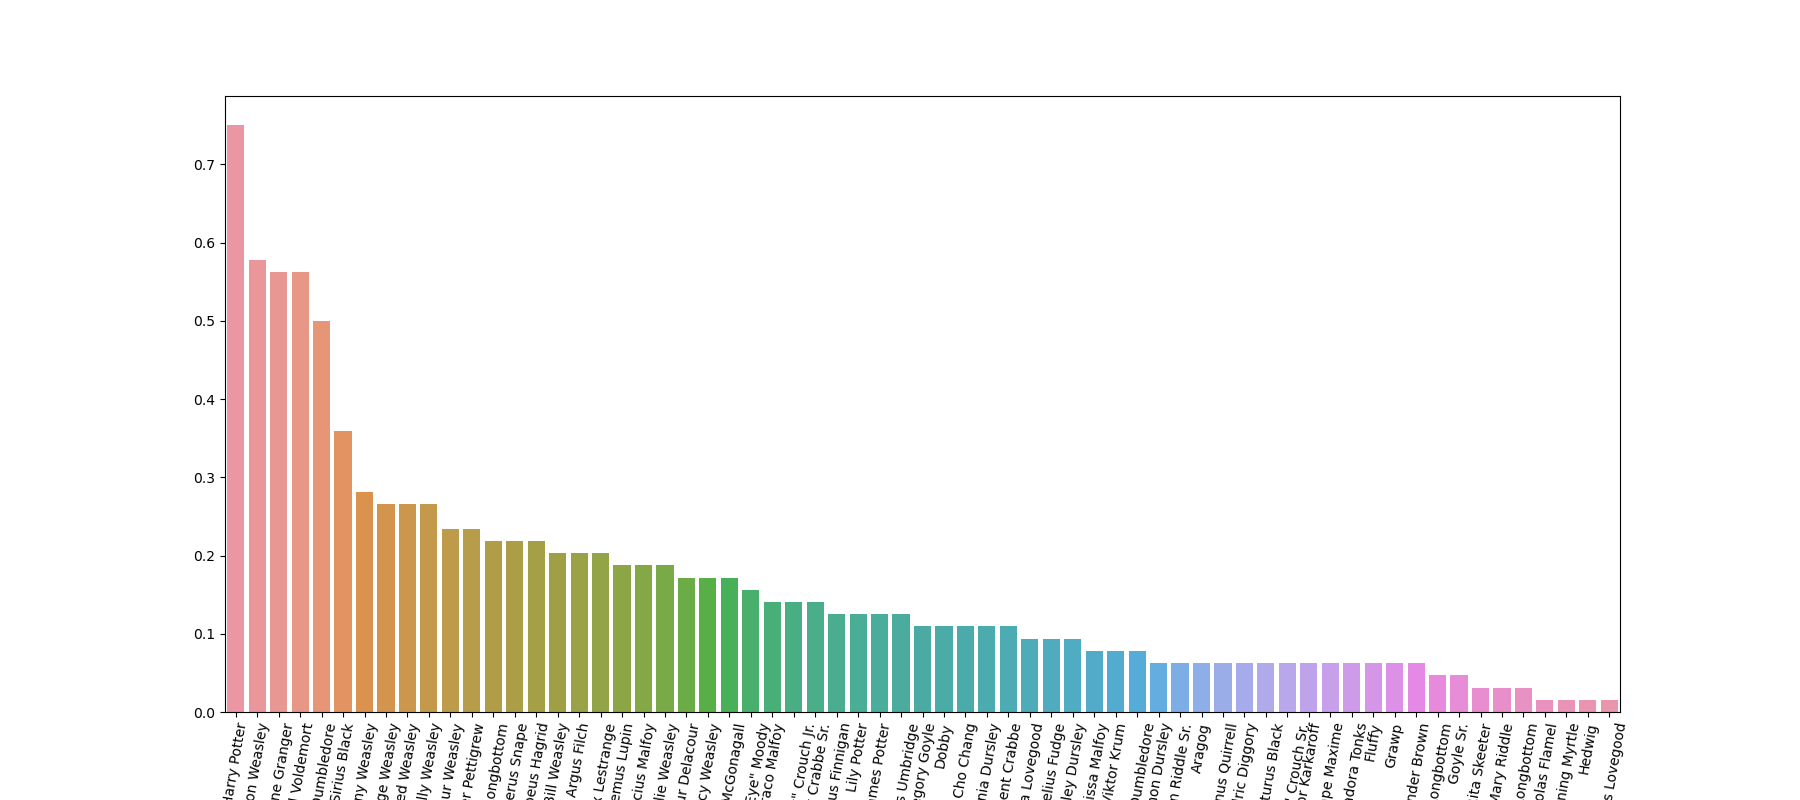
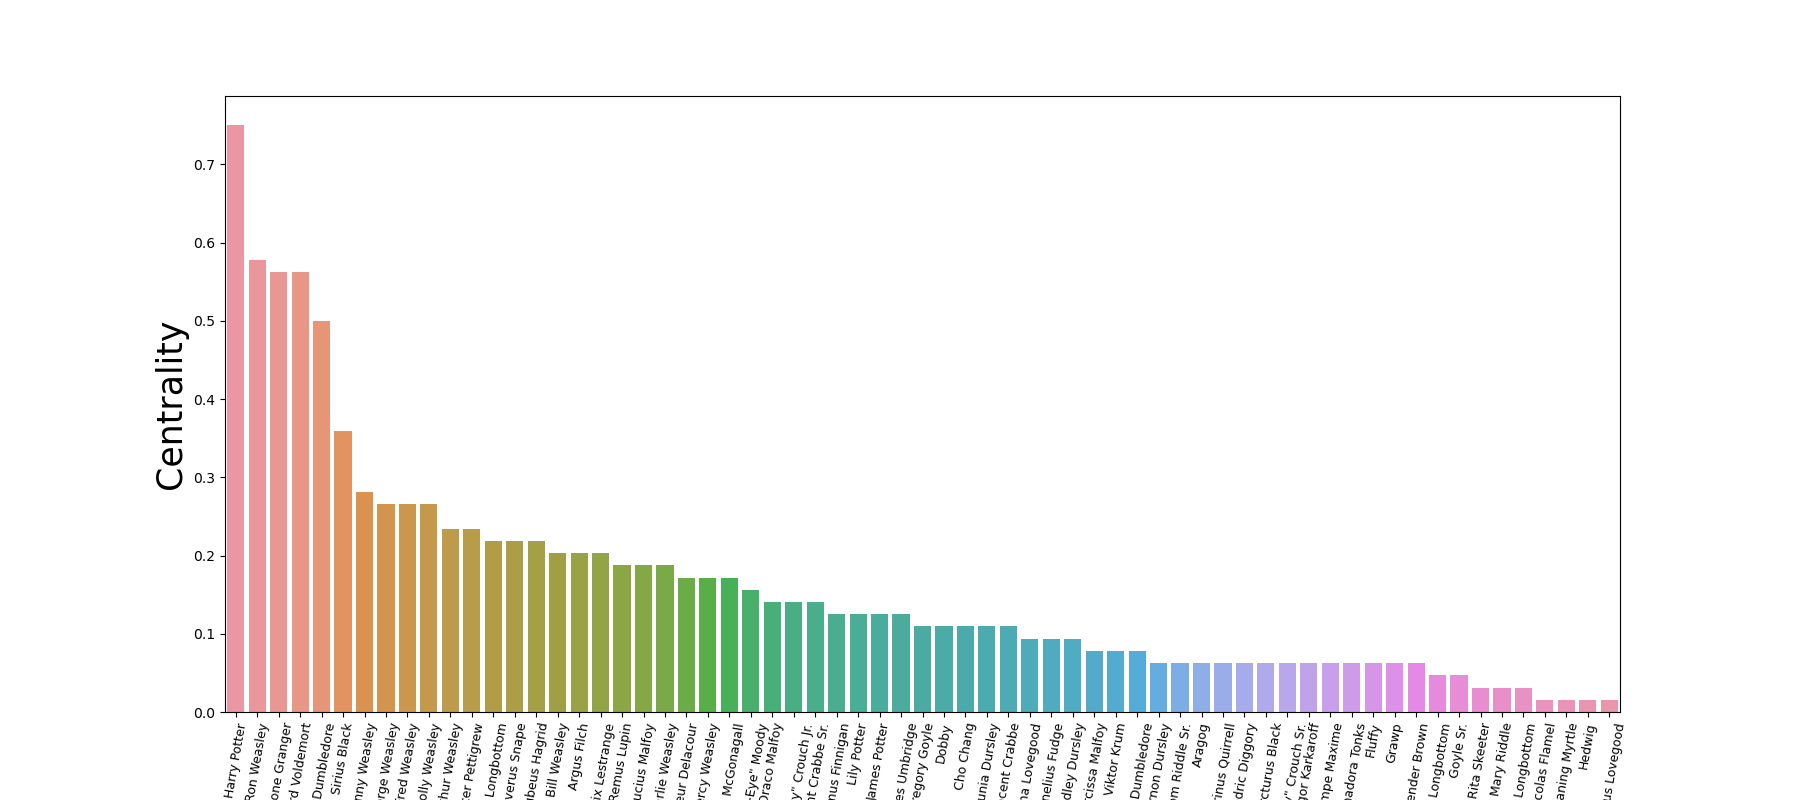
functions

Changed region(s): [[0.1244, 0.9062, 0.9022, 1.0], [0.0933, 0.4062, 0.1244, 0.5], [0.0933, 0.5625, 0.1244, 0.5938]]

diff --git a/NetworkX.py b/NetworkX.py
@@ -20,10 +20,11 @@ def plot_centrality_by_key(centrality_type, graph):
 
     plt.figure(figsize=(18, 8))
     sns.barplot(x=centrality_df["keys"].tolist(), y=centrality_df["values"].tolist(), order=plot_order)
-    plt.xticks(rotation=80)
-    plt.xlabel("Characters")
+    plt.xticks(rotation=80, fontsize=9)
+    plt.xlabel("Characters", fontsize=25)
+    plt.ylabel("Centrality", fontsize=25)
     plt.savefig("grafici/" + centrality_type + ".png")
-    plt.title(centrality_type + " Centrality")
+    plt.title(centrality_type + " Centrality", fontsize=36)
     plt.tight_layout()
     plt.show()
 
@@ -39,7 +40,10 @@ def plot_centrality_distribution(centrality_type, graph):
     plt.figure(figsize=(18, 8))
     sns.histplot(list(centrality.values()), kde=True)
     plt.savefig("grafici/" + centrality_type + "_distribution.png")
-    plt.title(centrality_type + " Centrality Distribution")
+    plt.xticks(rotation=80, fontsize=9)
+    plt.xlabel("Characters", fontsize=25)
+    plt.ylabel("Centrality", fontsize=25)
+    plt.title(centrality_type + " Centrality Distribution", fontsize=36)
     plt.show()
 
 characters = pd.read_csv("data/characters.csv")
@@ -68,6 +72,7 @@ nx.draw_networkx_labels(graph, nx.kamada_kawai_layout(graph), labels=mapping, fo
                         font_family='sans-serif', font_weight='bold')
 plt.savefig('grafici/network_kamada')
 plt.show()
+
 
 '''
 #closeness centrality
